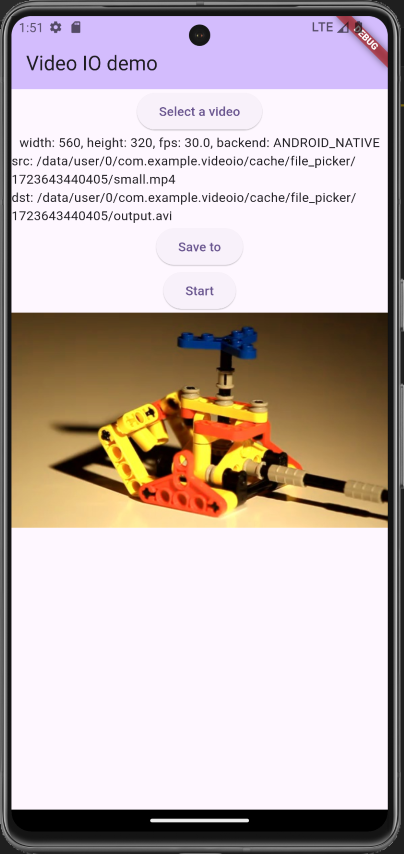
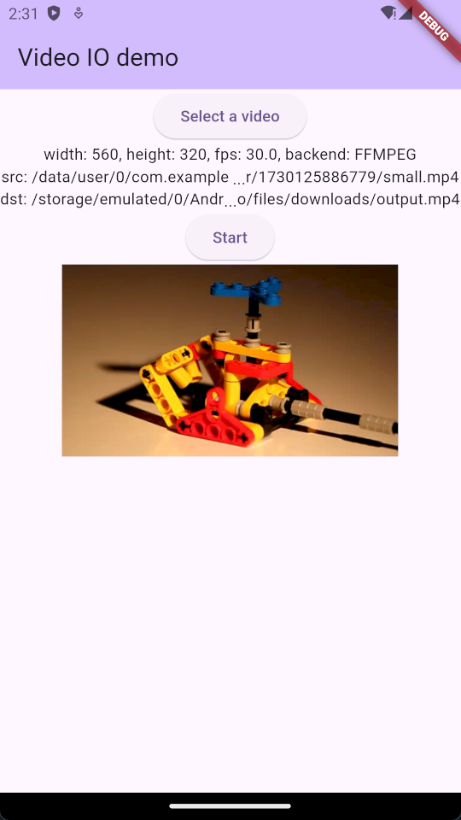
fix videoio example

diff --git a/examples/videoio/lib/main.dart b/examples/videoio/lib/main.dart
@@ -1,5 +1,7 @@
 import 'dart:typed_data';
 
+import 'package:extended_text/extended_text.dart';
+import 'package:path_provider/path_provider.dart';
 import 'package:file_picker/file_picker.dart';
 import 'package:opencv_dart/opencv_dart.dart' as cv;
 import 'package:path/path.dart' as p;
@@ -94,78 +96,101 @@ class _MyHomePageState extends State<MyHomePage> {
         child: Column(
           mainAxisAlignment: MainAxisAlignment.start,
           children: <Widget>[
-            ElevatedButton(
-                onPressed: () async {
-                  FilePickerResult? result = await FilePicker.platform.pickFiles(type: FileType.video);
-                  if (result != null) {
-                    final file = result.files.single;
-                    final path = file.path;
-                    if (path != null) {
-                      debugPrint("selected file: $path");
-                      await vc.openAsync(path);
-                      setState(() {
-                        src = path;
-                        dst = p.join("/data/user/0/com.example.videoio/cache", "output.avi");
-                        width = vc.get(cv.CAP_PROP_FRAME_WIDTH).toInt();
-                        height = vc.get(cv.CAP_PROP_FRAME_HEIGHT).toInt();
-                        fps = vc.get(cv.CAP_PROP_FPS);
-                        backend = vc.getBackendName();
-                      });
+            Row(
+              mainAxisAlignment: MainAxisAlignment.center,
+              children: [
+                ElevatedButton(
+                  onPressed: () async {
+                    FilePickerResult? result = await FilePicker.platform.pickFiles(type: FileType.video);
+
+                    if (result != null) {
+                      final file = result.files.single;
+                      final path = file.path;
+                      if (path != null) {
+                        debugPrint("selected file: $path");
+                        await vc.openAsync(path);
+                        setState(() {
+                          src = path;
+                          dst = p.join(p.dirname(path), "output.mp4");
+                          width = vc.get(cv.CAP_PROP_FRAME_WIDTH).toInt();
+                          height = vc.get(cv.CAP_PROP_FRAME_HEIGHT).toInt();
+                          fps = vc.get(cv.CAP_PROP_FPS);
+                          backend = vc.getBackendName();
+                        });
+                      }
+
+                      final downloads = await getDownloadsDirectory();
+                      debugPrint("downloads: $downloads");
+                      if (downloads != null) {
+                        setState(() {
+                          dst = p.join(downloads.path, "output.mp4");
+                        });
+                      }
                     }
-                  }
-                },
-                child: const Text("Select a video")),
+                  },
+                  child: const Text("Select a video"),
+                )
+              ],
+            ),
             Text("width: $width, height: $height, fps: $fps, backend: $backend"),
-            Text("src: $src"),
-            Text("dst: $dst"),
+            ExtendedText(
+              "src: $src",
+              maxLines: 1,
+              overflowWidget: const TextOverflowWidget(
+                position: TextOverflowPosition.middle,
+                child: Text("..."),
+              ),
+            ),
+            ExtendedText(
+              "dst: $dst",
+              maxLines: 1,
+              overflowWidget: const TextOverflowWidget(
+                position: TextOverflowPosition.middle,
+                child: Text("..."),
+              ),
+            ),
             ElevatedButton(
-                onPressed: () async {
-                  final result = await FilePicker.platform.saveFile(fileName: "output.avi", bytes: Uint8List(0));
-                  if (result != null) {
+              child: const Text("Start"),
+              onPressed: () async {
+                debugPrint("dst: $dst");
+                // we will write the first frame to the `dst` file and read it back
+                vw.open(dst!, "MJPG", fps, (width, height));
+                assert(vw.isOpened);
+                final (success, frame) = await vc.readAsync();
+                if (success) {
+                  await vw.writeAsync(frame);
+                } else {
+                  debugPrint("failed to read frame");
+                }
+                vw.release();
+
+                // read it back
+                final vc1 = cv.VideoCapture.fromFile(dst!);
+                final (s, f) = await vc1.readAsync();
+                vc1.dispose();
+
+                if (s) {
+                  final (s1, bytes) = await cv.imencodeAsync(".png", f);
+                  f.dispose();
+
+                  if (s1) {
                     setState(() {
-                      dst = result;
+                      _wroteFrame = bytes;
                     });
-                  }
-                },
-                child: const Text("Save to")),
-            ElevatedButton(
-                onPressed: () async {
-                  // we will write the first frame to the `dst` file and read it back
-                  vw.open(dst!, "MJPG", fps, (width, height));
-                  assert(vw.isOpened);
-                  final (success, frame) = await vc.readAsync();
-                  if (success) {
-                    await vw.writeAsync(frame);
                   } else {
-                    debugPrint("failed to read frame");
+                    debugPrint("encode failed");
                   }
-                  vw.release();
-
-                  // read it back
-                  final vc1 = cv.VideoCapture.fromFile(dst!);
-                  final (s, f) = await vc1.readAsync();
-                  vc1.dispose();
-
-                  if (s) {
-                    final rgb = cv.cvtColor(f, cv.COLOR_BGR2RGB);
-                    final (s1, bytes) = await cv.imencodeAsync(".png", rgb);
-
-                    f.dispose();
-                    rgb.dispose();
-
-                    if (s1) {
-                      setState(() {
-                        _wroteFrame = bytes;
-                      });
-                    } else {
-                      debugPrint("encode failed");
-                    }
-                  } else {
-                    debugPrint("failed to read frame from $dst");
-                  }
-                },
-                child: const Text("Start")),
-            _wroteFrame == null ? Placeholder() : Image.memory(_wroteFrame!),
+                } else {
+                  debugPrint("failed to read frame from $dst");
+                }
+              },
+            ),
+            _wroteFrame == null
+                ? const Placeholder()
+                : Image.memory(
+                    _wroteFrame!,
+                    width: 300,
+                  ),
           ],
         ),
       ),

diff --git a/examples/videoio/macos/Flutter/GeneratedPluginRegistrant.swift b/examples/videoio/macos/Flutter/GeneratedPluginRegistrant.swift
@@ -5,6 +5,8 @@
 import FlutterMacOS
 import Foundation
 
+import path_provider_foundation
 
 func RegisterGeneratedPlugins(registry: FlutterPluginRegistry) {
+  PathProviderPlugin.register(with: registry.registrar(forPlugin: "PathProviderPlugin"))
 }

diff --git a/examples/videoio/windows/runner/main.cpp b/examples/videoio/windows/runner/main.cpp
@@ -26,7 +26,7 @@ int APIENTRY wWinMain(_In_ HINSTANCE instance, _In_opt_ HINSTANCE prev,
 
   FlutterWindow window(project);
   Win32Window::Point origin(10, 10);
-  Win32Window::Size size(1280, 720);
+  Win32Window::Size size(480, 720);
   if (!window.Create(L"videoio", origin, size)) {
     return EXIT_FAILURE;
   }
